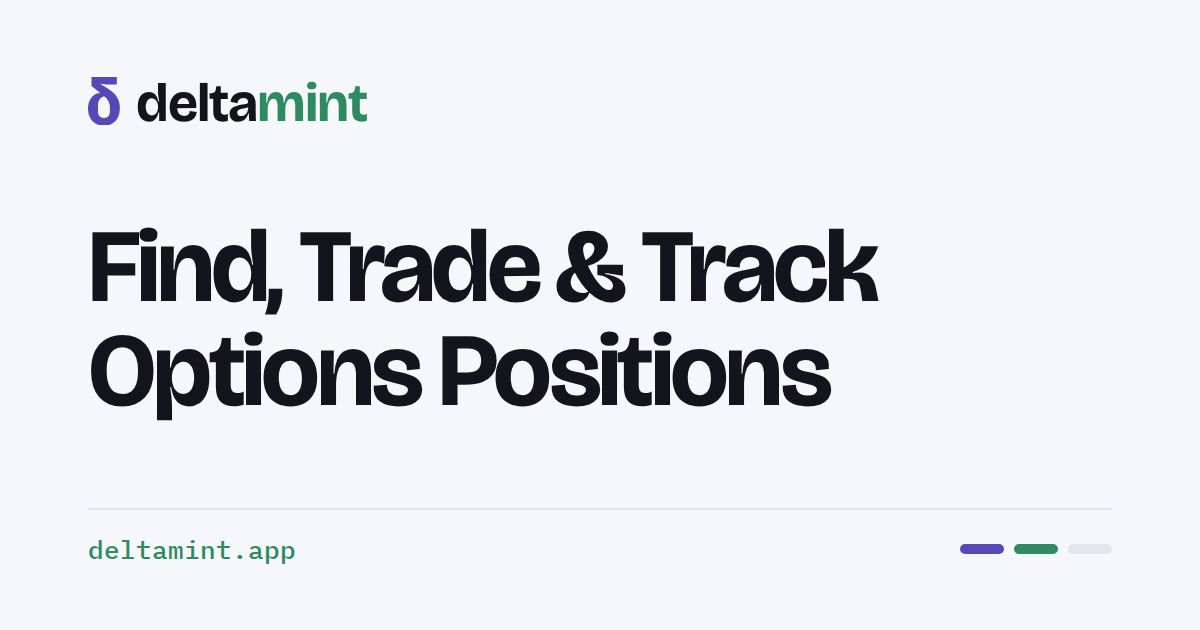
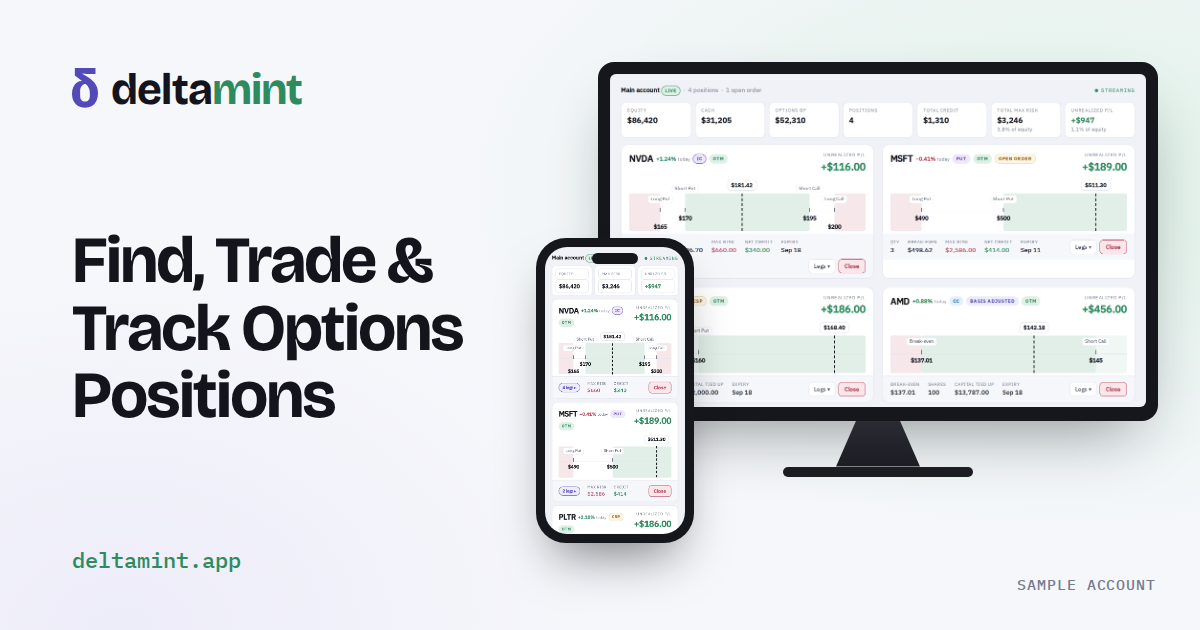
Share card: the product on screen, the way Tradier and Alpaca show theirs
The owner, sending Tradier's and Alpaca's WhatsApp previews: "Make the photo
something like that." Words left -- the δ lockup and the homepage headline --
and the product right: the Positions Monitor on a monitor and on a phone, over
a soft violet-to-mint wash.

The screens are the homepage's own Positions Monitor replica, captured by
npm run og:card at generation time (desktop from the hero with only the
DeltaMint side of the wipe showing, phone from the hero's mobile view). The
homepage and its stylesheets are now inputs to the stamp, so when the
product picture on the homepage changes, content:check calls the card stale.

The analysis screen was not used: it is performance figures (win rate,
realized P/L), and a share card travels without the page's "sample account,
not a forecast" note. The positions view carries sample P/L too, so the card
says "Sample account" itself.

legal-pdf.mjs now exports its site server for the capture; its PDFs are
regenerated because the generator is one of their inputs.

Claude-Session: https://claude.ai/code/session_01Nxnf9dAQaxzU6NmozNgnR7

diff --git a/scripts/og-card/template.html b/scripts/og-card/template.html
@@ -4,52 +4,71 @@
 <meta charset="utf-8" />
 <style>
   /* Filled in by scripts/og-card.mjs: the brand fonts from scripts/fonts,
-     the colours from landing/public/assets/site.css. */
+     the colours from landing/public/assets/site.css, and the two product
+     screens captured from the homepage's own Positions Monitor replica. */
   {{FONTS}}
   :root { {{TOKENS}} }
   * { box-sizing: border-box; margin: 0; }
   html, body { width: 1200px; height: 630px; }
   body {
-    background: var(--paper);
-    font-family: "IBM Plex Sans", sans-serif;
-    color: var(--ink);
-    padding: 72px 88px 64px;
-    display: flex; flex-direction: column;
     position: relative; overflow: hidden;
+    font-family: "IBM Plex Sans", sans-serif; color: var(--ink);
+    /* The way Tradier and Alpaca set theirs: a soft brand wash, words left,
+       product right. Violet into mint, the two halves of the lockup. */
+    background:
+      radial-gradient(900px 520px at 88% 30%, var(--mint-soft), transparent 70%),
+      radial-gradient(700px 520px at 10% 100%, var(--brand-soft), transparent 70%),
+      var(--paper);
   }
-  /* The lockup, with the site's own geometry (site.css .brandmark). */
-  .brandmark { display: flex; align-items: baseline; gap: 0.3em; font-size: 54px; color: var(--ink); }
+
+  /* ---- words, left ---- */
+  .words { position: absolute; left: 72px; top: 64px; bottom: 56px; width: 470px; display: flex; flex-direction: column; }
+  .brandmark { display: flex; align-items: baseline; gap: 0.3em; font-size: 44px; color: var(--ink); }
   .brandmark svg { height: 0.9024em; width: auto; display: block; position: relative; top: 0.0876em; }
   .brandmark span { font-family: "Bricolage Grotesque", sans-serif; font-weight: 700; letter-spacing: -0.02em; line-height: 1; }
   .brandmark .m { color: var(--mint); }
-
-  /* Logo and ONE line. The description is not drawn: every app that shows
-     this card prints the page's title and description under it, so drawing
-     them here said everything twice -- and the second time too small to read
-     on a phone. The headline is sized to be read at thumbnail scale. */
+  /* Logo and ONE line, no description: every app prints the page's title and
+     description beneath the card, so drawing them here said it twice. */
   h1 {
     margin: auto 0;
     font-family: "Bricolage Grotesque", sans-serif; font-weight: 700;
-    font-size: 104px; line-height: 1.0; letter-spacing: -0.035em;
-    max-width: 1000px; text-wrap: balance;
+    font-size: 66px; line-height: 1.02; letter-spacing: -0.03em;
+    text-wrap: balance;
   }
-  .foot {
-    display: flex; align-items: center; justify-content: space-between;
-    border-top: 2px solid var(--line); padding-top: 22px;
+  .url { font-family: "IBM Plex Mono", monospace; font-weight: 500; font-size: 22px; color: var(--mint); }
+
+  /* ---- product, right ---- */
+  .desk { position: absolute; left: 598px; top: 62px; width: 560px; display: flex; flex-direction: column; align-items: center; }
+  .monitor {
+    width: 100%; background: #16171D; border-radius: 16px; padding: 12px 12px 14px;
+    box-shadow: 0 30px 60px -24px rgba(20, 21, 28, .45);
   }
-  .url { font-family: "IBM Plex Mono", monospace; font-weight: 500; font-size: 26px; color: var(--mint); }
-  .rail { display: flex; gap: 10px; }
-  .rail i { width: 44px; height: 10px; border-radius: 5px; background: var(--brand); display: block; }
-  .rail i:nth-child(2) { background: var(--mint); }
-  .rail i:nth-child(3) { background: var(--line); }
+  .monitor img { display: block; width: 100%; border-radius: 6px; }
+  .stand { width: 84px; height: 46px; background: linear-gradient(#2A2B33, #1C1D23); clip-path: polygon(24% 0, 76% 0, 100% 100%, 0 100%); }
+  .foot-bar { width: 190px; height: 10px; border-radius: 5px; background: #1C1D23; }
+  .phone {
+    position: absolute; left: 536px; top: 238px; width: 158px;
+    background: #16171D; border-radius: 30px; padding: 9px;
+    box-shadow: 0 28px 50px -18px rgba(20, 21, 28, .55);
+  }
+  .phone img { display: block; width: 100%; border-radius: 22px; }
+  .phone::before { content: ""; position: absolute; top: 15px; left: 50%; width: 46px; height: 11px; margin-left: -23px; border-radius: 6px; background: #16171D; z-index: 1; }
+  /* The screens carry the homepage's sample account and its figures. A card
+     travels without the page around it, so it says so itself. */
+  .sample { position: absolute; right: 44px; bottom: 36px; font-family: "IBM Plex Mono", monospace; font-size: 15px; letter-spacing: .06em; text-transform: uppercase; color: var(--ink-mute); }
 </style>
 </head>
 <body>
-  <div class="brandmark">{{LOCKUP}}</div>
-  <h1>{{TITLE}}</h1>
-  <div class="foot">
+  <div class="words">
+    <div class="brandmark">{{LOCKUP}}</div>
+    <h1>{{TITLE}}</h1>
     <span class="url">deltamint.app</span>
-    <span class="rail" aria-hidden="true"><i></i><i></i><i></i></span>
   </div>
+  <div class="desk">
+    <div class="monitor"><img src="{{DESKTOP}}" alt="" /></div>
+    <div class="stand"></div><div class="foot-bar"></div>
+  </div>
+  <div class="phone"><img src="{{PHONE}}" alt="" /></div>
+  <span class="sample">Sample account</span>
 </body>
 </html>

diff --git a/landing/src/index.js b/landing/src/index.js
@@ -209,7 +209,7 @@ ${g.posts
 <meta property="og:site_name" content="DeltaMint" />
 <meta property="og:url" content="${site}/blog" />
 <meta property="og:title" content="DeltaMint blog" />
-<meta property="og:image" content="${site}/assets/og-card.png?v=05143a81780b" />
+<meta property="og:image" content="${site}/assets/og-card.png?v=b2a42a50de3a" />
 <link rel="alternate" type="application/rss+xml" title="DeltaMint blog" href="${site}/blog/feed.xml" />`,
     body: `<h1>Blog</h1>
 <p class="lede">Options, explained from the first contract to the last position. One post a day, in six series.</p>
@@ -243,7 +243,7 @@ function renderCategory(posts, cat, site, noindex, env = {}) {
 <meta property="og:url" content="${esc(url)}" />
 <meta property="og:title" content="${esc(cat.title)}" />
 <meta property="og:description" content="${esc(cat.intro)}" />
-<meta property="og:image" content="${site}/assets/og-card.png?v=05143a81780b" />
+<meta property="og:image" content="${site}/assets/og-card.png?v=b2a42a50de3a" />
 <script type="application/ld+json">${JSON.stringify(jsonLd)}</script>`,
     body: `<p class="crumbs"><a href="/blog">Blog</a> › ${esc(cat.title)}</p>
 <h1>${esc(cat.title)}</h1>
@@ -264,7 +264,7 @@ function renderPost(post, site, noindex, env = {}, all = []) {
   const { prev, next } = neighbours(all, post);
   const more = related(all, post, 3);
   const description = post.meta_description || post.excerpt || "";
-  const image = post.og_image || `${site}/assets/og-card.png?v=05143a81780b`;
+  const image = post.og_image || `${site}/assets/og-card.png?v=b2a42a50de3a`;
 
   // BlogPosting structured data. Finance is YMYL under Google's quality
   // guidelines, so a named author and real dates carry more weight here than

diff --git a/index.html b/index.html
@@ -14,13 +14,13 @@
     <meta property="og:site_name" content="DeltaMint" />
     <meta property="og:title" content="DeltaMint — Find, Trade &amp; Track Options Positions" />
     <meta property="og:description" content="A scanner that finds trades based on your rules, orders that work to a fill with your broker, and a book that's really easy to understand and evaluate." />
-    <meta property="og:image" content="%VITE_SITE_URL%/assets/og-card.png?v=05143a81780b" />
+    <meta property="og:image" content="%VITE_SITE_URL%/assets/og-card.png?v=b2a42a50de3a" />
     <meta property="og:image:width" content="1200" />
     <meta property="og:image:height" content="630" />
     <meta name="twitter:card" content="summary_large_image" />
     <meta name="twitter:title" content="DeltaMint — Find, Trade &amp; Track Options Positions" />
     <meta name="twitter:description" content="A scanner that finds trades based on your rules, orders that work to a fill with your broker, and a book that's really easy to understand and evaluate." />
-    <meta name="twitter:image" content="%VITE_SITE_URL%/assets/og-card.png?v=05143a81780b" />
+    <meta name="twitter:image" content="%VITE_SITE_URL%/assets/og-card.png?v=b2a42a50de3a" />
     <!-- share:end -->
     <link rel="icon" href="/favicon.ico" sizes="any" />
     <link rel="icon" href="/favicon.svg" type="image/svg+xml" />

diff --git a/landing/public/index.html b/landing/public/index.html
@@ -16,13 +16,13 @@
 <meta property="og:url" content="https://deltamint.app/" />
 <meta property="og:title" content="DeltaMint — Find, Trade &amp; Track Options Positions" />
 <meta property="og:description" content="A scanner that finds trades based on your rules, orders that work to a fill with your broker, and a book that&#39;s really easy to understand and evaluate." />
-<meta property="og:image" content="https://deltamint.app/assets/og-card.png?v=05143a81780b" />
+<meta property="og:image" content="https://deltamint.app/assets/og-card.png?v=b2a42a50de3a" />
 <meta property="og:image:width" content="1200" />
 <meta property="og:image:height" content="630" />
 <meta name="twitter:card" content="summary_large_image" />
 <meta name="twitter:title" content="DeltaMint — Find, Trade &amp; Track Options Positions" />
 <meta name="twitter:description" content="A scanner that finds trades based on your rules, orders that work to a fill with your broker, and a book that&#39;s really easy to understand and evaluate." />
-<meta name="twitter:image" content="https://deltamint.app/assets/og-card.png?v=05143a81780b" />
+<meta name="twitter:image" content="https://deltamint.app/assets/og-card.png?v=b2a42a50de3a" />
 
 <script type="application/ld+json">
 {

diff --git a/landing/public/privacy/index.html b/landing/public/privacy/index.html
@@ -16,9 +16,9 @@
 <meta property="og:url" content="https://deltamint.app/privacy" />
 <meta property="og:title" content="DeltaMint — Privacy Policy" />
 <meta property="og:description" content="What DeltaMint collects, how brokerage credentials are stored and encrypted, who your data is shared with, and how to request deletion." />
-<meta property="og:image" content="https://deltamint.app/assets/og-card.png?v=05143a81780b" />
+<meta property="og:image" content="https://deltamint.app/assets/og-card.png?v=b2a42a50de3a" />
 <meta name="twitter:card" content="summary_large_image" />
-<meta name="twitter:image" content="https://deltamint.app/assets/og-card.png?v=05143a81780b" />
+<meta name="twitter:image" content="https://deltamint.app/assets/og-card.png?v=b2a42a50de3a" />
 
 <link rel="preconnect" href="https://fonts.googleapis.com">
 <link rel="preconnect" href="https://fonts.gstatic.com" crossorigin>

diff --git a/landing/public/terms/index.html b/landing/public/terms/index.html
@@ -16,9 +16,9 @@
 <meta property="og:url" content="https://deltamint.app/terms" />
 <meta property="og:title" content="DeltaMint — Terms of Use" />
 <meta property="og:description" content="The terms governing use of DeltaMint, including order submission, execution risk, disclaimers and limitations of liability." />
-<meta property="og:image" content="https://deltamint.app/assets/og-card.png?v=05143a81780b" />
+<meta property="og:image" content="https://deltamint.app/assets/og-card.png?v=b2a42a50de3a" />
 <meta name="twitter:card" content="summary_large_image" />
-<meta name="twitter:image" content="https://deltamint.app/assets/og-card.png?v=05143a81780b" />
+<meta name="twitter:image" content="https://deltamint.app/assets/og-card.png?v=b2a42a50de3a" />
 
 <link rel="preconnect" href="https://fonts.googleapis.com">
 <link rel="preconnect" href="https://fonts.gstatic.com" crossorigin>
